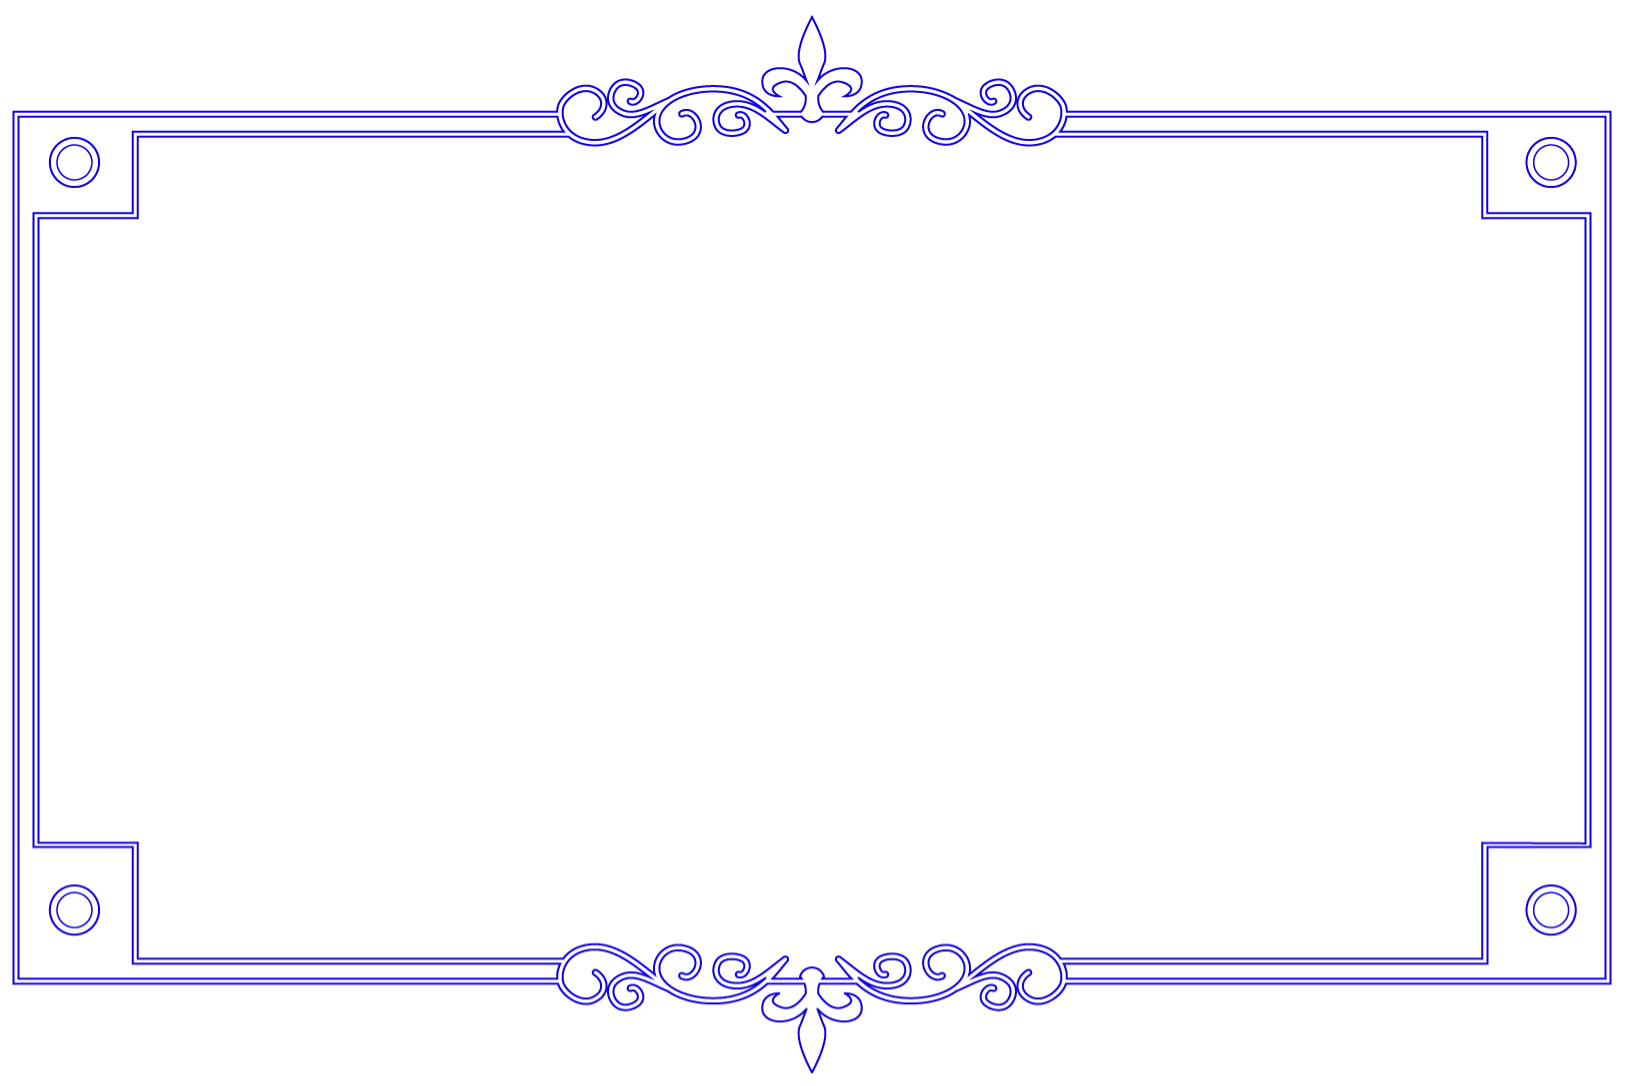
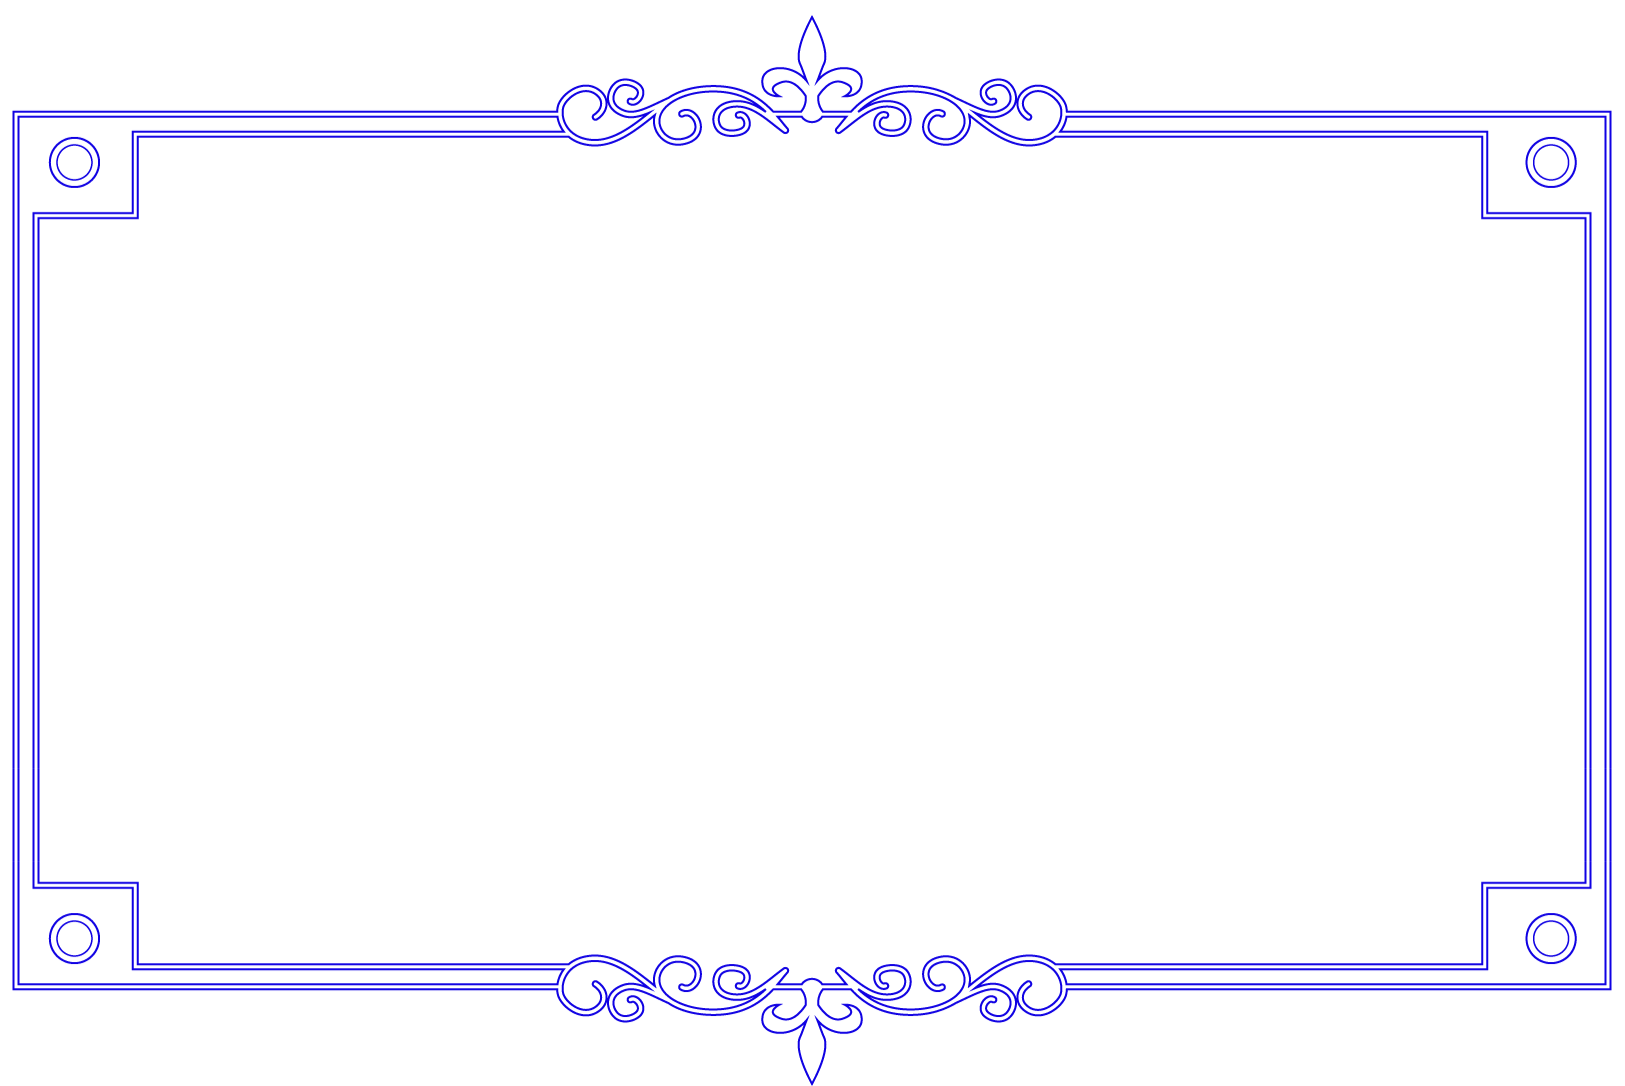
细节优化

Changed region(s): [[0.0, 0.7597, 1.0, 1.0]]

diff --git a/resources/template/menu/zhenxun_menu.html b/resources/template/menu/zhenxun_menu.html
@@ -13,7 +13,7 @@
 	<div class="transition"></div>
     <div class="wrapper">
         <main class="des">
-            <p>可以通过 ‘帮助[功能名称]’ 来获取对应功能的使用方法。&nbsp;&nbsp;&nbsp;或者使用 ‘详细帮助’ 来获取所有功能方法。</p>
+            <p>可以通过 ‘帮助[功能名称]’ 来获取对应功能的使用方法。</p>
             <p style="color:red;">注：横线字功能被群管理员禁用，浅色字代表功能正在维护&nbsp;&nbsp;&nbsp;&nbsp;真寻机器人免费开源，如果你在任何渠道付费购买了真寻机器人，请退款。</p>
         </main>
         <div class="content">

diff --git a/basic_plugins/help/_utils.py b/basic_plugins/help/_utils.py
@@ -228,7 +228,6 @@ class HelpImageBuild:
         for msg in [
             "目前支持的功能列表:",
             "可以通过 ‘帮助[功能名称]’ 来获取对应功能的使用方法",
-            "或者使用 ‘详细帮助’ 来获取所有功能方法",
         ]:
             text = BuildImage(
                 0,
